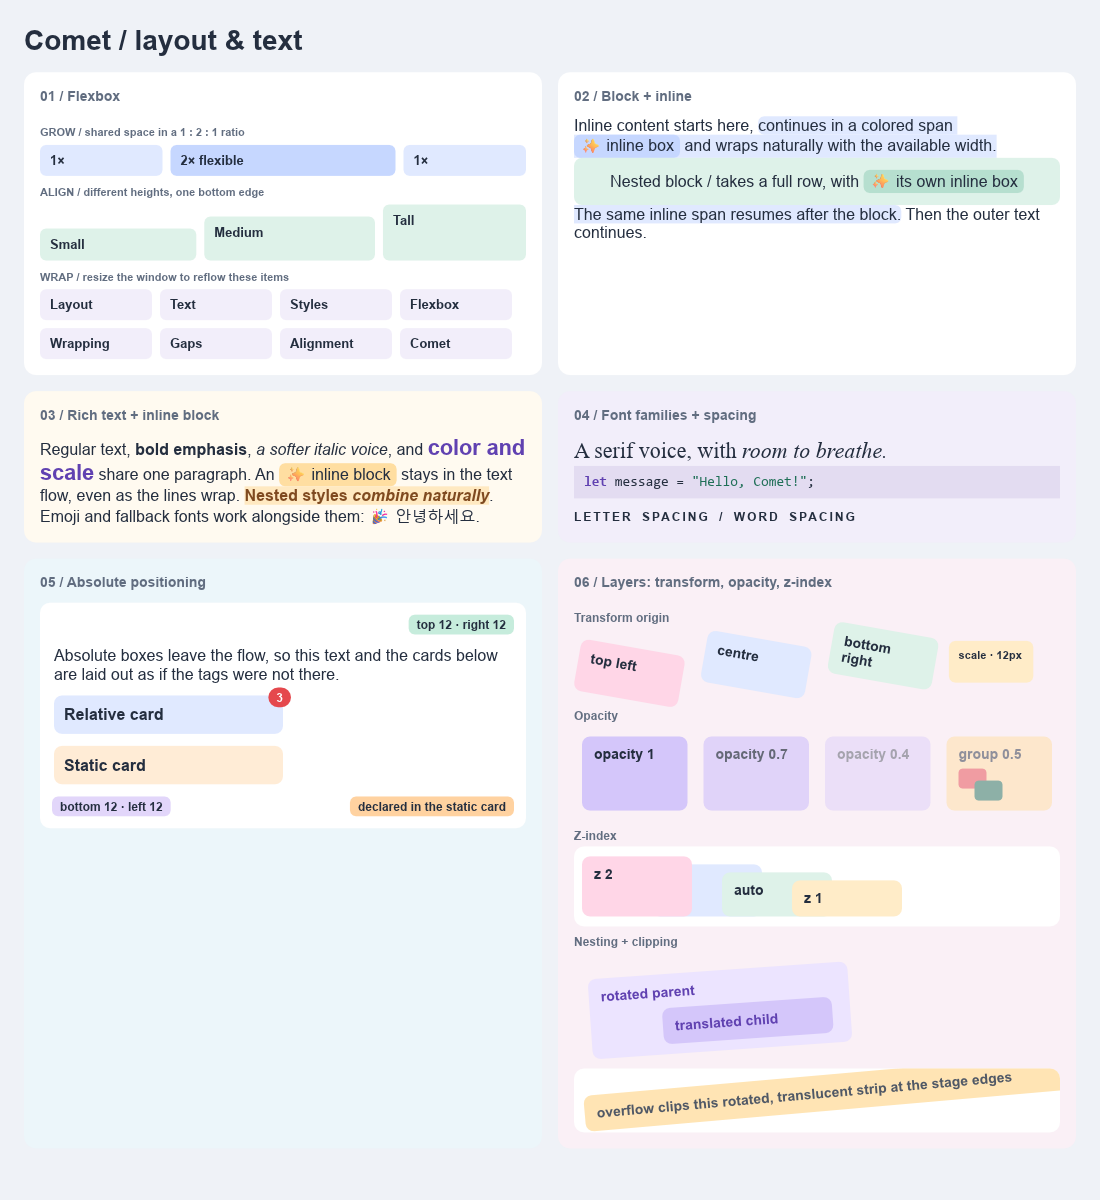
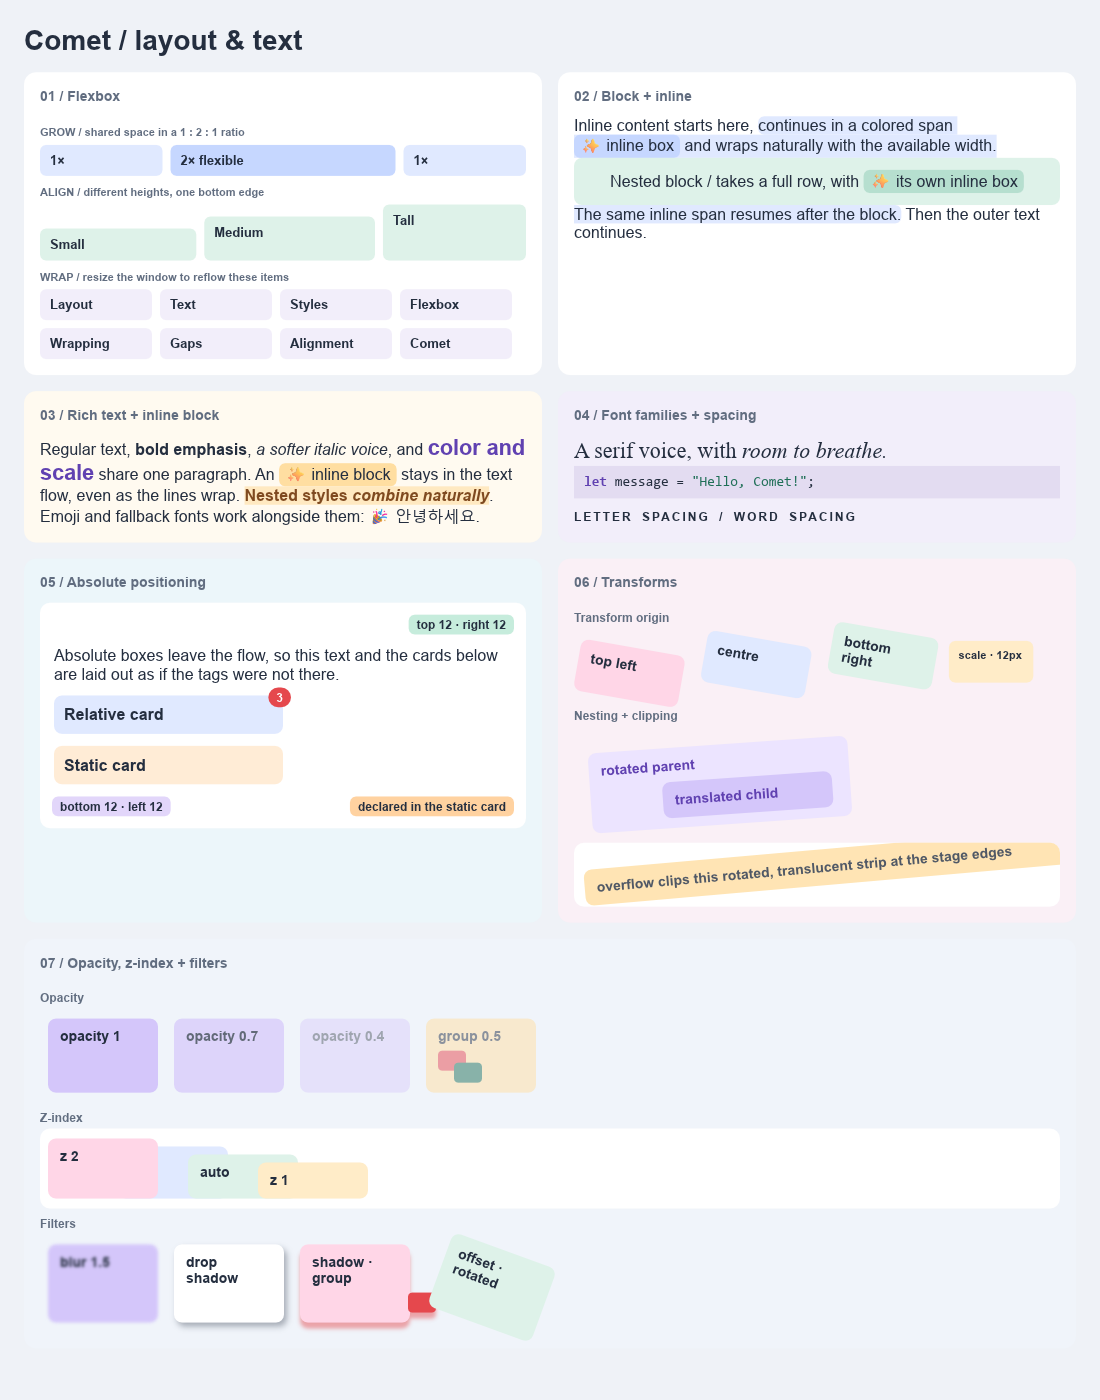
feat: filter example

diff --git a/crates/comet/examples/common/layers.rs b/crates/comet/examples/common/layers.rs
@@ -1,4 +1,6 @@
-use anyrender::Paint;
+use std::sync::Arc;
+
+use anyrender::{Filter as FilterGraph, Paint, filters::FilterEffect};
 use comet_layout::style::{
     bx::{DisplayInner, FontSize, FontWeight, Margin, Overflow, Padding, Size as BoxSize},
     geometry::{AutoValue, Point, Rect, Size as LayoutSize, StyleUnit},
@@ -7,29 +9,31 @@ use comet_layout::style::{
 };
 use comet_layout_flex::{Flex, styles::Gap};
 use comet_paint::style::{
-    BorderRadius, Fill, Opacity, TextColor, Transform, TransformOrigin, ZIndex,
+    BorderRadius, Fill, Filter, Opacity, TextColor, Transform, TransformOrigin, ZIndex,
 };
 use comet_tree::{
     node::{Node, NodeKey},
     ui::Ui,
 };
-use kurbo::Affine;
+use kurbo::{Affine, Vec2};
 use peniko::Color;
 
 use super::{panel, text};
 
 pub(super) fn showcase(ui: &mut Ui, root: NodeKey) {
-    let panel = panel(
+    let transforms = panel(ui, root, "06 / Transforms", Color::from_rgb8(250, 240, 246));
+    transform_origins(ui, transforms);
+    nested_transforms(ui, transforms);
+
+    let compositing = panel(
         ui,
         root,
-        "06 / Layers: transform, opacity, z-index",
-        Color::from_rgb8(250, 240, 246),
+        "07 / Opacity, z-index + filters",
+        Color::from_rgb8(240, 244, 250),
     );
-
-    transform_origins(ui, panel);
-    opacity(ui, panel);
-    z_index(ui, panel);
-    nested_transforms(ui, panel);
+    opacity(ui, compositing);
+    z_index(ui, compositing);
+    filters(ui, compositing);
 }
 
 /// The same rotation around different transform origins. Transforms do not
@@ -143,6 +147,64 @@ fn z_index(ui: &mut Ui, panel: NodeKey) {
             ),
         );
     }
+}
+
+/// Filters apply to a box and its contents as one group, in its local
+/// coordinates.
+fn filters(ui: &mut Ui, panel: NodeKey) {
+    caption(ui, panel, "Filters");
+    let row = row(ui, panel);
+
+    let blurred = card(ui, row, "blur 1.5", Color::from_rgb8(212, 198, 250));
+    ui.set_props(blurred, (filter(FilterEffect::blur(1.5)),));
+
+    let shadowed = card(ui, row, "drop shadow", Color::WHITE);
+    ui.set_props(
+        shadowed,
+        (filter(FilterEffect::drop_shadow(
+            3.0,
+            4.0,
+            3.0,
+            Color::from_rgba8(36, 46, 63, 90),
+        )),),
+    );
+
+    // The filter sees the box and its children as one image: the shadow
+    // follows the chip poking out of the card too.
+    let group = card(ui, row, "shadow · group", Color::from_rgb8(255, 214, 231));
+    ui.set_props(
+        group,
+        (filter(FilterEffect::drop_shadow(
+            0.0,
+            6.0,
+            2.0,
+            Color::from_rgba8(229, 72, 77, 120),
+        )),),
+    );
+    let poking = chip(ui, group, Color::from_rgb8(229, 72, 77));
+    ui.set_props(
+        poking,
+        (Margin(Rect::new_invidiual(
+            px(6.0),
+            px(0.0),
+            px(0.0),
+            px(96.0),
+        )),),
+    );
+
+    // Offsets are in the box's local coordinates, so they turn with it.
+    let offset = card(ui, row, "offset · rotated", Color::from_rgb8(222, 242, 233));
+    ui.set_props(
+        offset,
+        (
+            filter(FilterEffect::Offset(Vec2::new(12.0, 0.0))),
+            Transform(Affine::rotate(20f64.to_radians())),
+        ),
+    );
+}
+
+fn filter(effect: FilterEffect) -> Filter {
+    Filter(Arc::new(FilterGraph::single(effect)))
 }
 
 /// Nested transforms multiply, and overflow clips transformed contents.

diff --git a/crates/comet/examples/tree.rs b/crates/comet/examples/tree.rs
@@ -21,7 +21,7 @@ use image::{ExtendedColorType, ImageEncoder, codecs::png::PngEncoder};
 use kurbo::Affine;
 
 const WIDTH: u32 = 1100;
-const HEIGHT: u32 = 1200;
+const HEIGHT: u32 = 1400;
 
 fn main() -> Result<(), Box<dyn std::error::Error>> {
     let (ui, root) = common::sample_ui();
